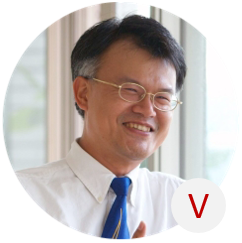
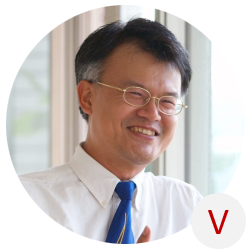
修改星期日更正

diff --git a/public/css/speaker.css b/public/css/speaker.css
@@ -3,7 +3,7 @@
     transform: translateY(0);
   }
   50% {
-    transform: translateY(5px);
+    transform: translateY(25px);
   }
   100% {
     transform: translateY(0);
@@ -194,6 +194,7 @@ input[type=checkbox] {
 }
 
 .checkbox input[type=checkbox]:checked + label {
+   vertical-align : middle;
 	 display: block;
     background-image: url(../images/1.png);
     width: 80px;
@@ -219,6 +220,7 @@ input[type=checkbox] {
 }
 
 .checkbox2 input[type=checkbox]:checked + label {
+   vertical-align : middle;
     display: block;
     background-image: url(../images/2.png);
     width: 80px;

diff --git a/resources/views/layouts/app.blade.php b/resources/views/layouts/app.blade.php
@@ -19,7 +19,7 @@
 
     <style>
         body {
-            font-family: 'Lato';
+            font-family: '微軟正黑體';
         }
 
         .fa-btn {
@@ -49,23 +49,15 @@
 <body id="app-layout">
     <nav class="navbar navbar-default navbar-static-top">
         <div class="container">
-            <div class="navbar-header" style="height:80px;">
+            <div class="navbar-header" >
 
-                <!-- Collapsed Hamburger -->
-                <!--<button type="button" class="navbar-toggle collapsed" data-toggle="collapse" data-target="#app-navbar-collapse">
-                    <span class="sr-only">Toggle Navigation</span>
-                    <span class="icon-bar"></span>
-                    <span class="icon-bar"></span>
-                    <span class="icon-bar"></span>
-                </button> -->
+                  <a class="navbar-brand" href="{{ url('/') }}">
+                      <img src="../images/title.png"  width="50%" >
+                  </a>
 
-
-                <!-- Branding Image -->
-                <a class="navbar-brand" href="{{ url('/') }}">
-                    <img width="120%" src="../images/title.png">
-                </a>
-                <div style="float:right;">
-                  <ul class="nav navbar-nav navbar-right">
+            </div>
+            <div style="float:right;">
+                  <ul style="list-style-type :none;">
                       <!-- Authentication Links -->
                       @if (Auth::guest())
 
@@ -73,7 +65,7 @@
                       @else
                           <li class="dropdown">
                               <a href="#" class="dropdown-toggle" data-toggle="dropdown" role="button" aria-expanded="false">
-                                  {{ Auth::user()->email }} <span class="caret"></span>
+                                  <span class="glyphicon glyphicon-user"></span> &nbsp; {{ Auth::user()->email }} <span class="caret"></span>
                               </a>
                               <ul class="dropdown-menu" role="menu">
                                   <li><a href="{{ url('/logout') }}"><i class="fa fa-btn fa-sign-out"></i>Logout</a></li>
@@ -81,8 +73,8 @@
                           </li>
                       @endif
                   </ul>
-            </div>
-          </div>
+
+            <div>
         </div>
     </nav>
 

diff --git a/resources/views/Speaker.blade.php b/resources/views/Speaker.blade.php
@@ -21,7 +21,7 @@
                               <div id="page2" class="col-xs-6" style="background-color:white;padding:5px;color:#AAAAAA;">關於</div>
                           </div>
 
-
+                          @if($speaker->id == 10) test @endif
                           <div id="page2-content">
                              <div style="padding:10px;text-align:center;font-size:16px;">{{ $speaker -> description}}</div>
                           </div>
@@ -125,7 +125,7 @@
                                   <br />
                               </form>
 
-                      </div>
+
                   </div>
 
                 </div>
@@ -154,7 +154,7 @@
                 $('#page1').css('font-weight','normal');
                 $('#page1').css('font-weight','normal');
                 $('#page2-content').html($content2);
-                $('#page1-content').html('');
+                $('#page1-content').remove();
           });
 
           $('#page1').click(function(){

diff --git a/database/seeds/SpeakerTableSeeder.php b/database/seeds/SpeakerTableSeeder.php
@@ -106,7 +106,7 @@ class SpeakerTableSeeder extends Seeder
                ));
                Speaker::create(array(
                  'name'     => '鄭俊德',
-                 'photo'     => './images/speaker10.jpg',
+                 'photo'     => './images/speaker10.png',
                  'vphoto'     => './images/vspeaker10.png',
                  'tphoto'     => '../images/tspeaker10.jpg',
                  'topic'     => '閱讀社群創辦人',

diff --git a/resources/views/Speakers.blade.php b/resources/views/Speakers.blade.php
@@ -14,12 +14,8 @@
         <div class="row">
             <div class="col-xs-12">
                 <h1 class="page-header">
-                    <center><img src="images/ted.png">Hsinchu
-
-                      <!-- <p>上午   |   下午</p> -->
-                    </center>
+                    <img  width="100%" src="images/ted.png">
                 </h1>
-
             </div>
         </div>
         <!-- /.row -->
